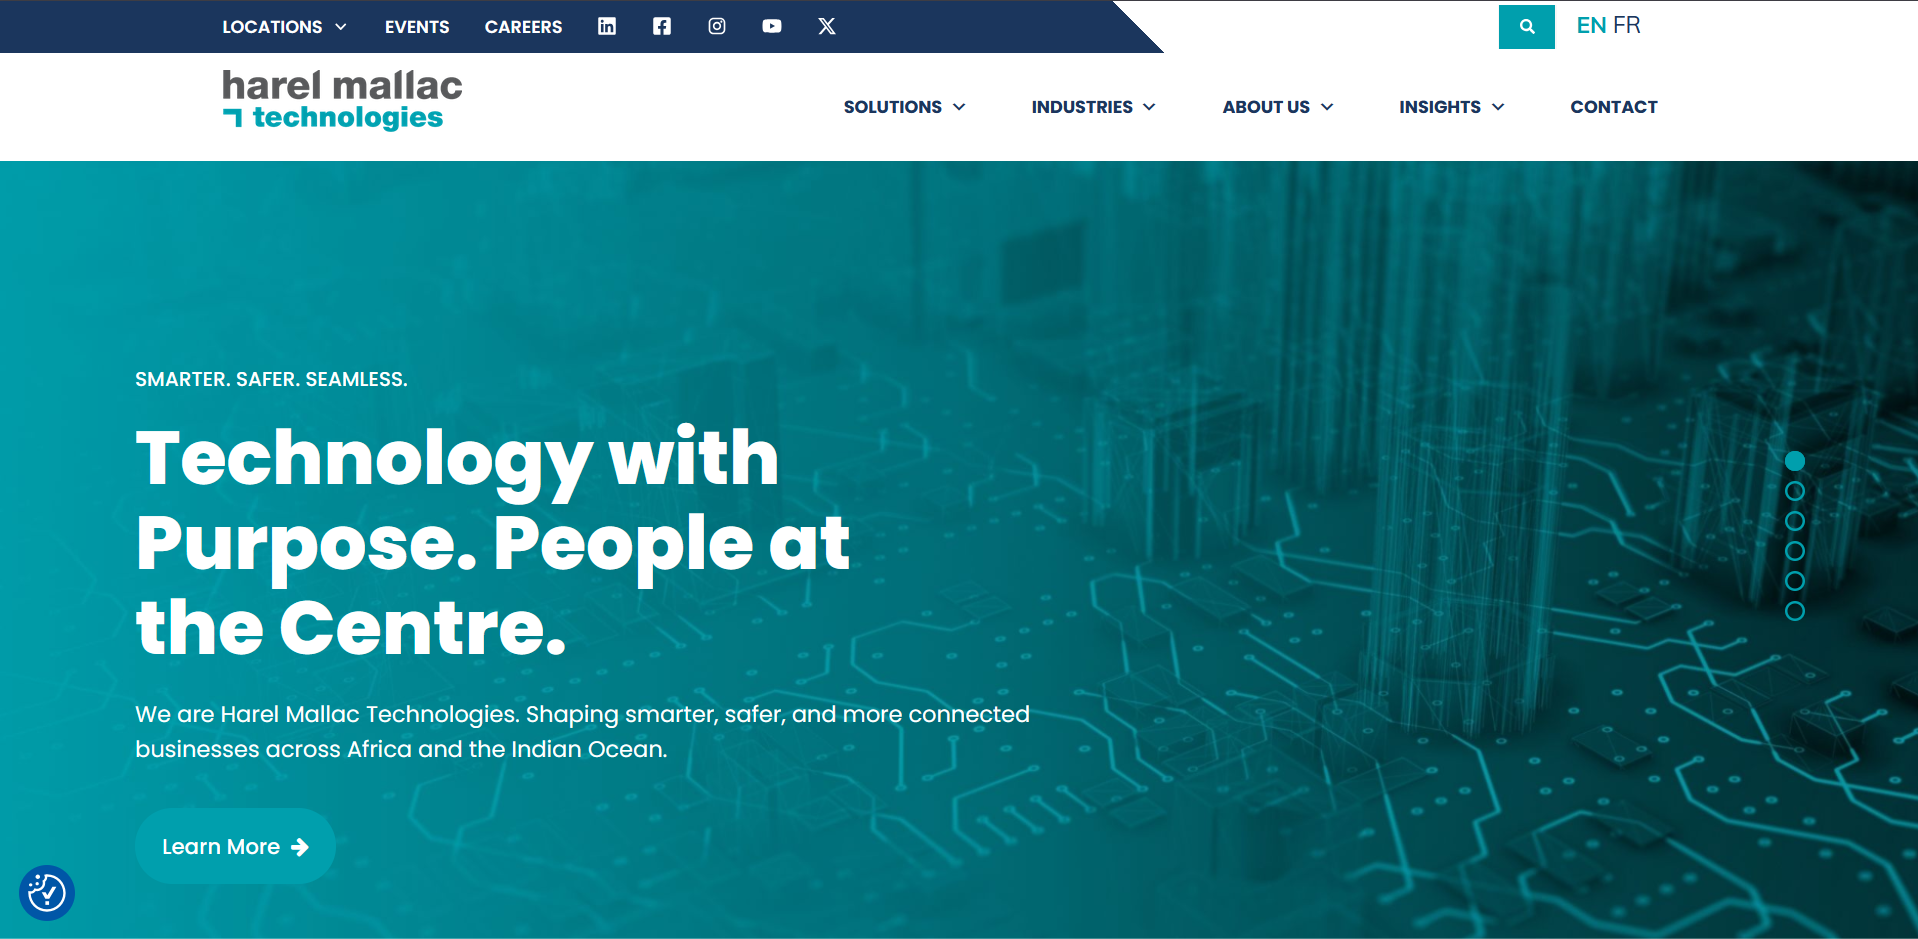
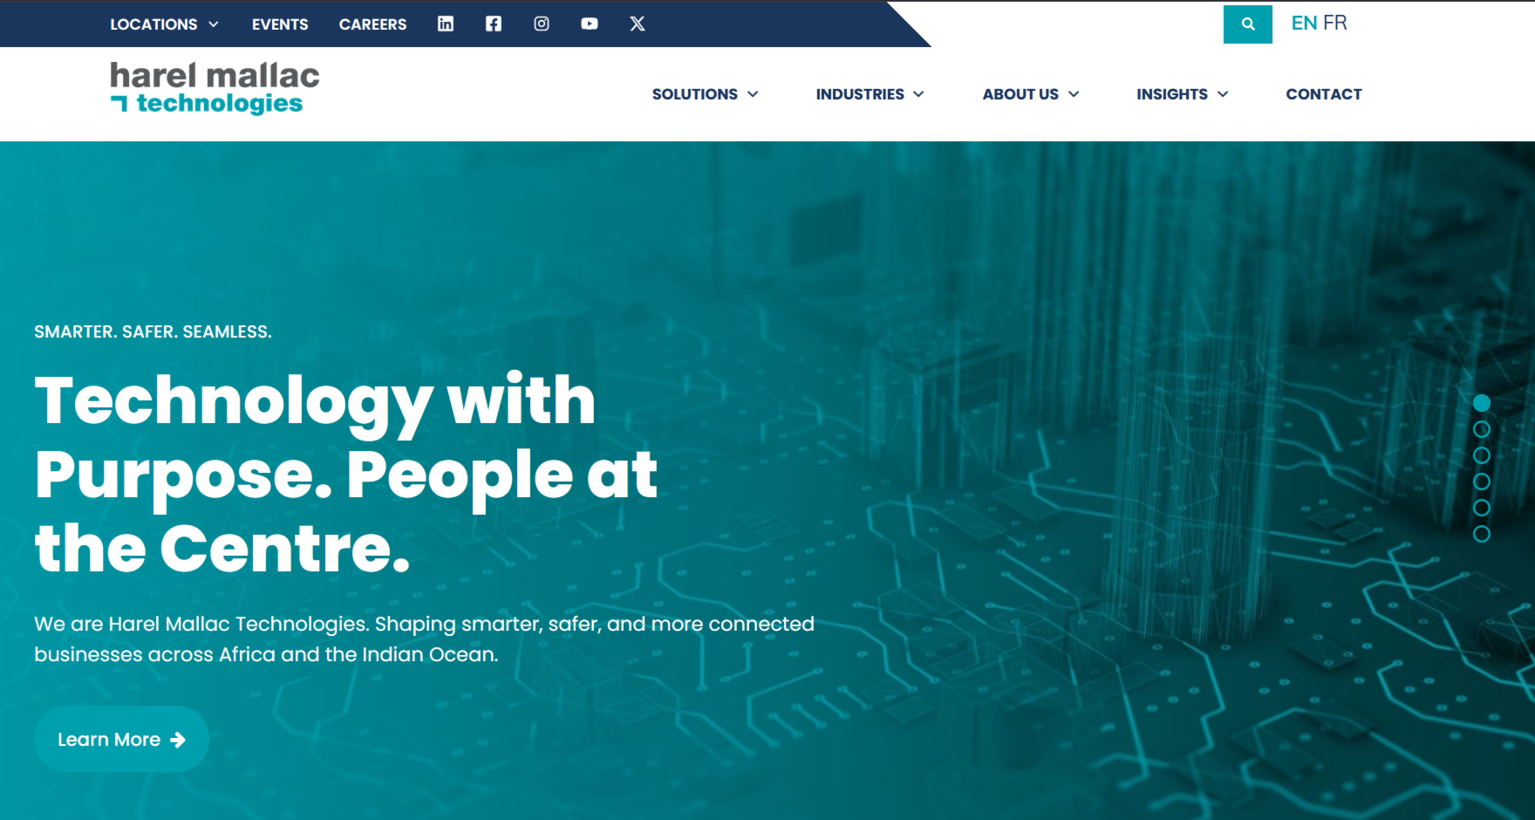
projects-update

diff --git a/src/components/portfolio/portfolio.js b/src/components/portfolio/portfolio.js
@@ -9,6 +9,7 @@ import IMG4 from "../../assets/portfolio2.png";
 import IMG5 from "../../assets/portfolio3.PNG";
 import IMG6 from "../../assets/portfolio4.png";
 import IMG7 from "../../assets/HMT-Home.png";
+import IMG8 from "../../assets/SaffCoaching-preview.png";
 
 // =====================
 // Projects Data
@@ -22,6 +23,15 @@ const cmsProjects = [
       "Harel Mallac Technologies official site, crafted with WordPress & Thrive Architect for a clean and professional online presence",
     technologies: ["WordPress", "Thrive Architect"],
     demo: "https://harelmallactechnologies.com/",
+  },
+  {
+    id: 2,
+    image: IMG8,
+    title: "Saff Coaching Co",
+    description:
+      "Saff Coaching Co – Professional website designed for a leadership coach to highlight services and expertise. Built with a clean, modern layout to engage clients and strengthen personal branding.",
+    technologies: ["WordPress", "Thrive Architect"],
+    demo: "https://saffcoachingco.com/",
   },
 ];
 
